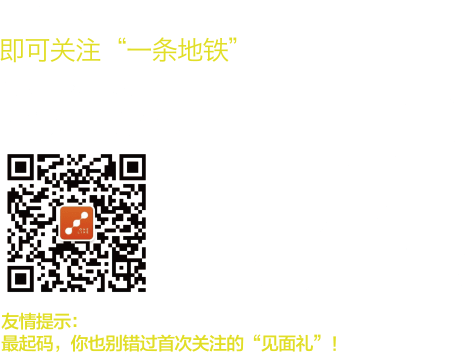
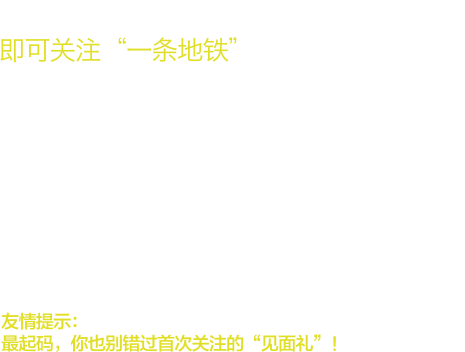
v8

Changed region(s): [[0.0, 0.4375, 0.3312, 0.8438]]

diff --git a/assets/css/style.css b/assets/css/style.css
@@ -26,8 +26,7 @@ textarea:-moz-placeholder { color:#a9a9a9; }
 #load{
     position: absolute;
     top: 0;
-    left: 0;
-    right: 0;
+    width: 640px;
     bottom: 0;
     background-color: #DD5536;
     z-index: 999;
@@ -66,11 +65,11 @@ textarea:-moz-placeholder { color:#a9a9a9; }
 .wrapper{
     position: absolute;
     top: 0;
-    left: 0;
-    right: 0;
+    width: 640px;
     bottom: 0;
     background-color: #DD5536;
     overflow: hidden;
+    display: none;
     /*background-image: url("../images/test/page1.png");*/
 }
 
@@ -317,10 +316,15 @@ textarea:-moz-placeholder { color:#a9a9a9; }
 .p6-1 {
     background-image: url("../images/p6/img1.png");
     left: 87px;
-    top: 568px;
+    bottom: 100px;
     width: 465px;
     height: 352px;
     transform-origin: 50% 100%;
+}
+.p6-2{
+    position: absolute;
+    top: 150px;
+    left: 0px;
 }
 
 

diff --git a/index.html b/index.html
@@ -209,7 +209,9 @@
     <div class="imgs p6-1"
          data-8912="transform: scale3d(0, 0, 0);"
          data-9492="transform: scale3d(1, 1, 1);"
-            ></div>
+            >
+        <img class="p6-2" src="./assets/images/p6/img2.png" alt="二维码"/>
+    </div>
 </div>
 <!-- js 紧贴</body> 页面渲染完成 后处理 js 有助于 加快 页面响应速度 -->
 <script src="./assets/libs/jquery/2.1.4/jquery.min.js"></script>

diff --git a/assets/js/functions.js b/assets/js/functions.js
@@ -52,6 +52,7 @@ function main() {
         $el.loadProgress.width(load.progress * 100 + '%');
     });
     preload.on("complete", function () {
+        $el.wrapper.show();
         setTimeout(function () {
             $el.loadBox.remove();
         }, 400);
